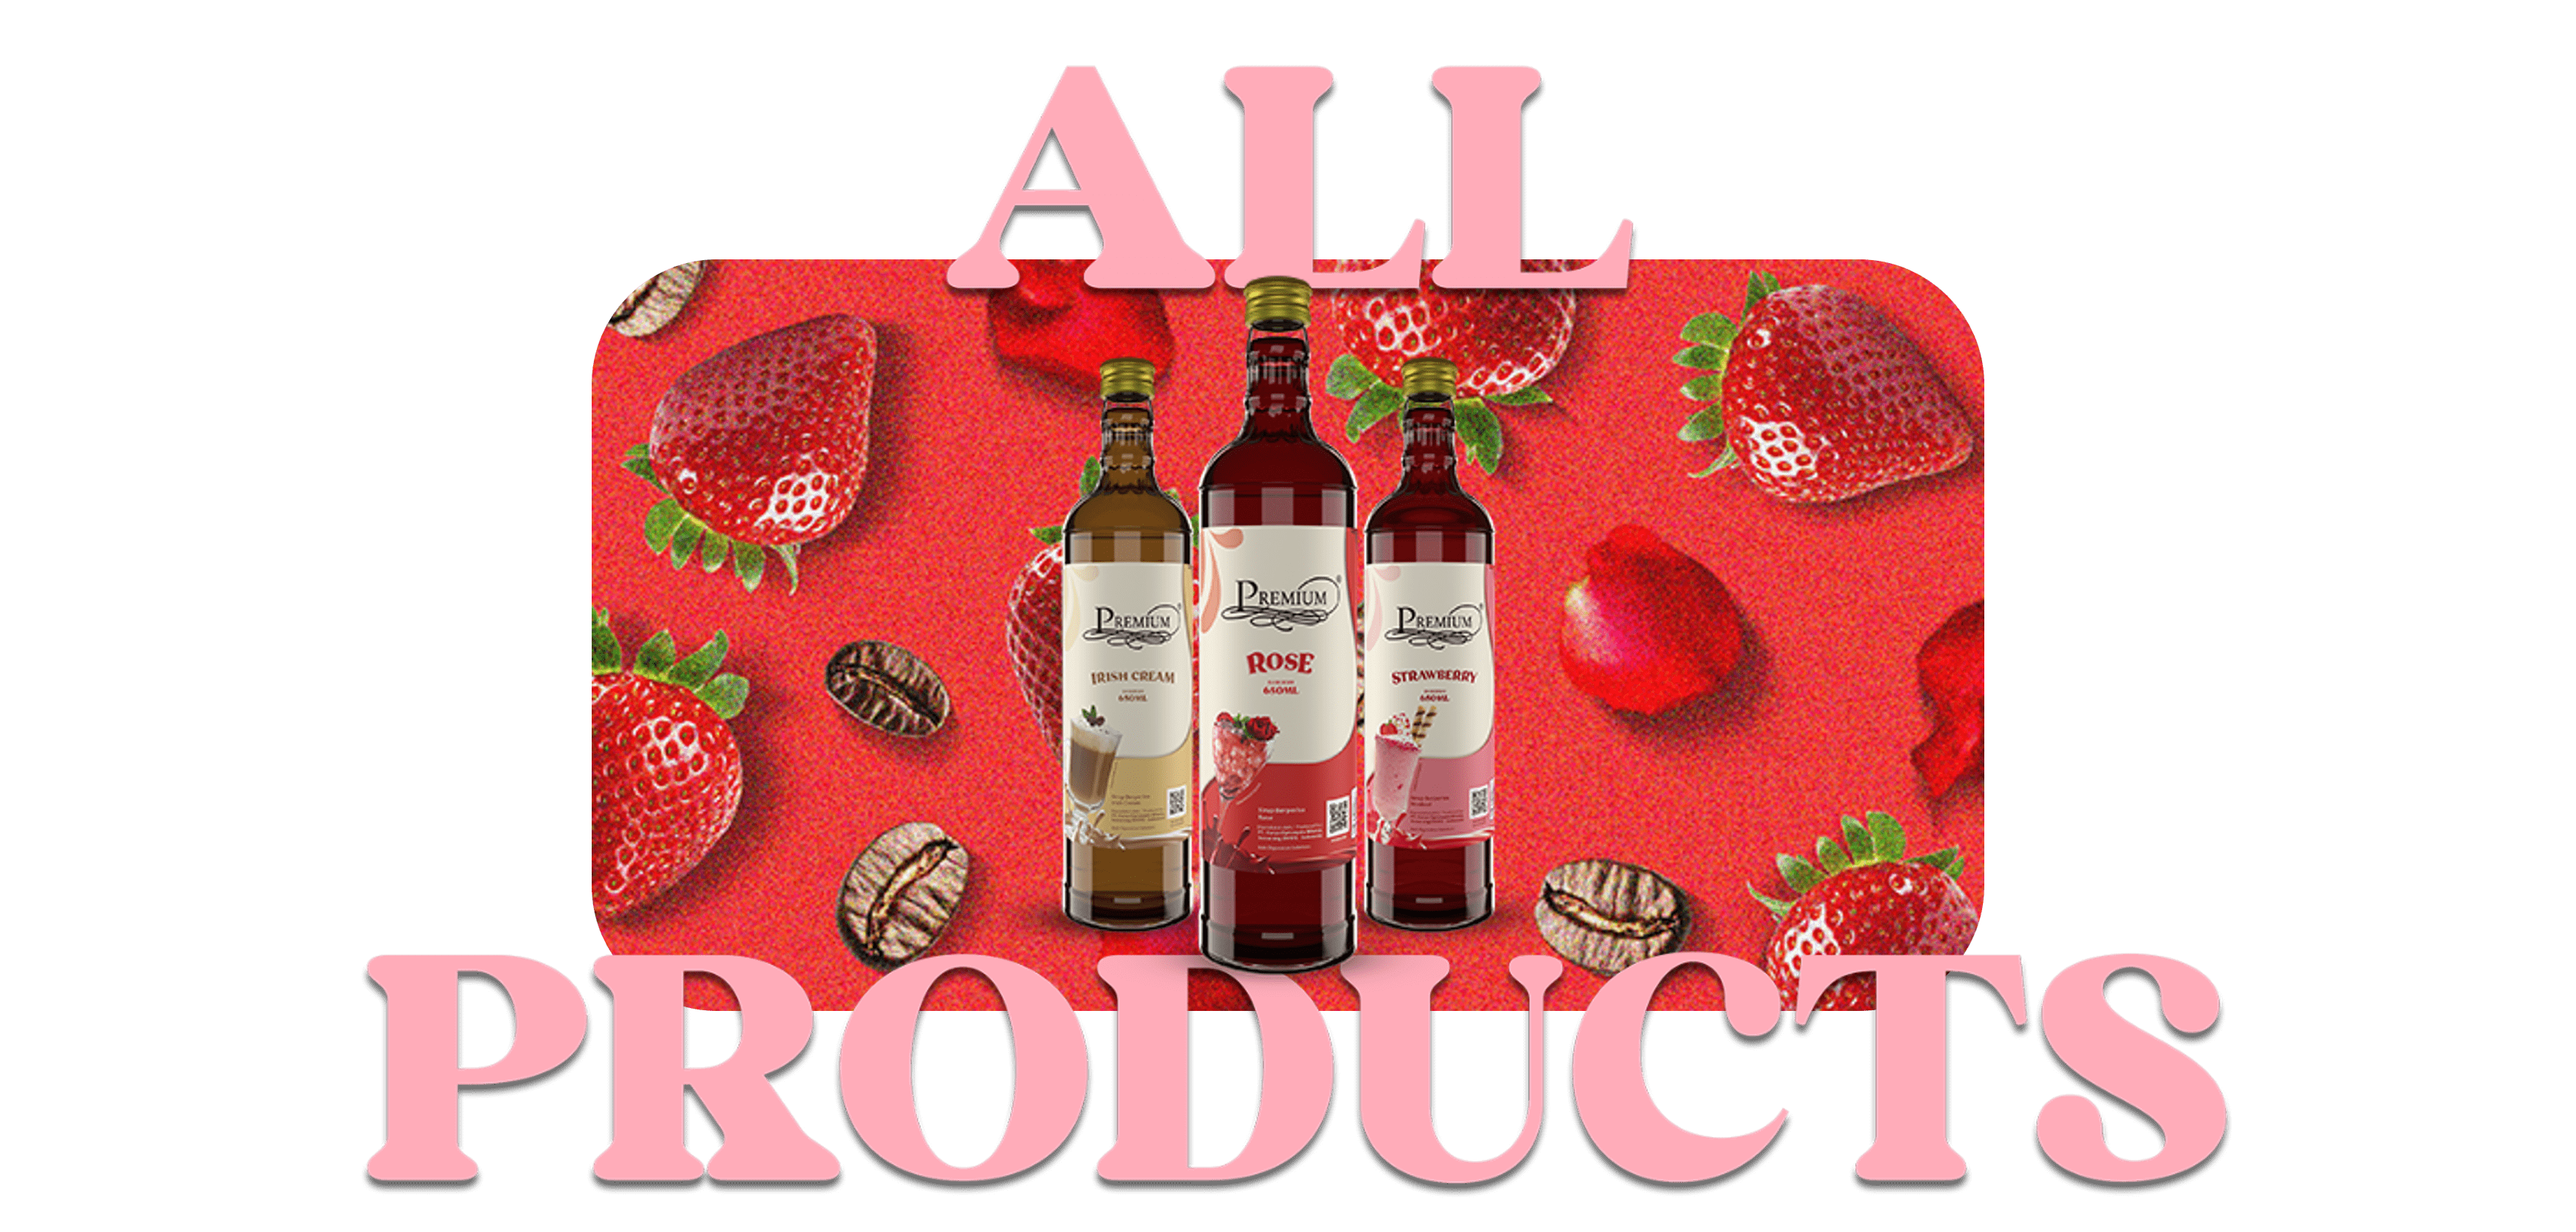
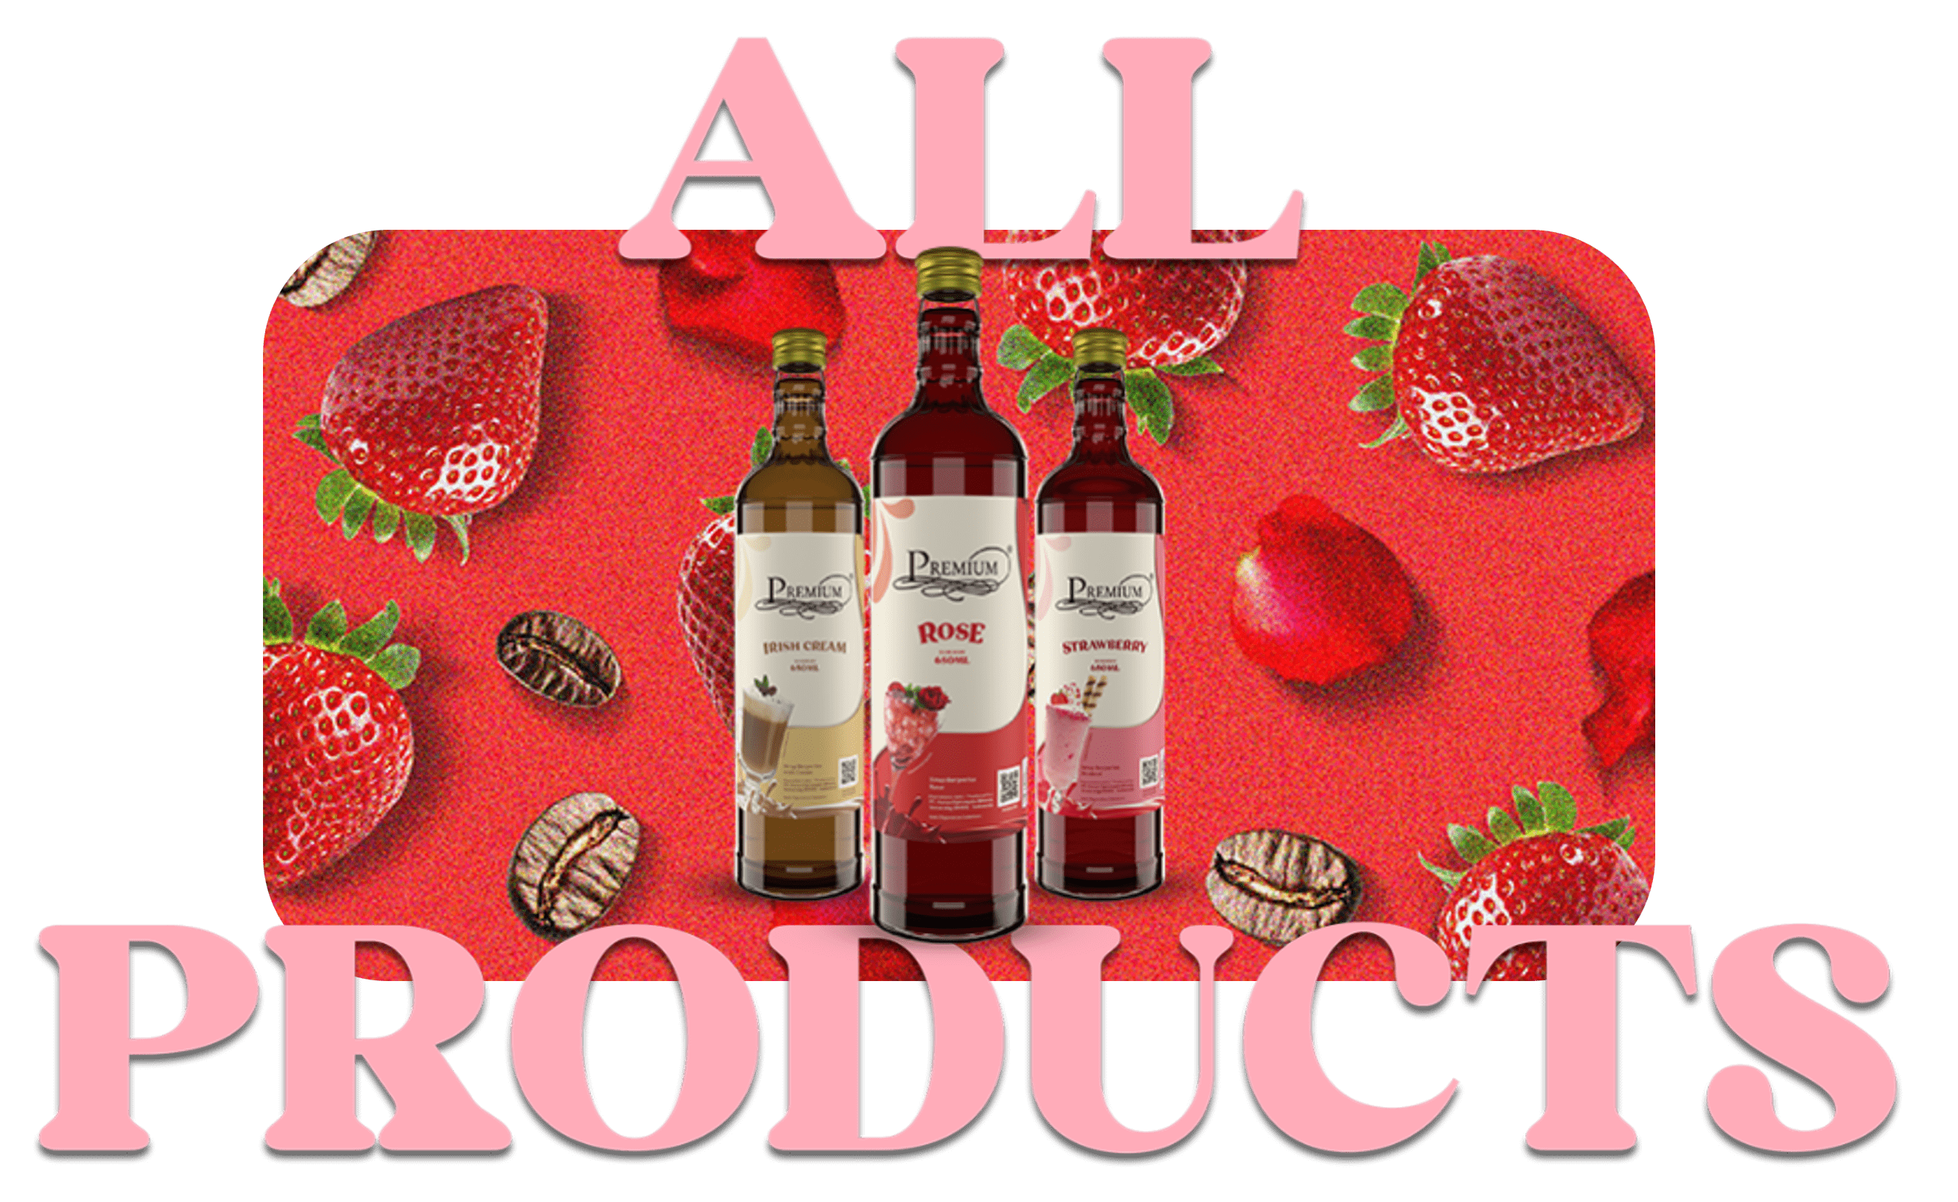
feat: carousel - change "Marketplace" asset - full height carousel - limit carousel image height

diff --git a/app/components/carousel.tsx b/app/components/carousel.tsx
@@ -116,17 +116,17 @@ const Carousel: React.FC<CarouselProps> = ({ items }) => {
         {carouselItems.map((item, index) => (
           <div
             key={index}
-            className="relative w-full flex-shrink-0 my-auto"
+            className="relative w-full carousel-height flex justify-center items-center flex-shrink-0 my-auto"
             style={{ transition: "transform 0.7s ease-in-out" }}
           >
             <img
               src={item.image}
               alt={item.alt}
-              className="w-full max-h-screen object-contain rounded-lg"
+              className="max-h-80 md:max-h-160 object-contain rounded-lg"
             />
 
             {/* Overlay text and CTA button */}
-            <div className="absolute top-1/2 left-1/2 transform -translate-x-1/2 -translate-y-1/2 text-center text-gray-700">
+            {/* <div className="absolute top-1/2 left-1/2 transform -translate-x-1/2 -translate-y-1/2 text-center text-gray-700">
               <h2 className="text-3xl font-bold mb-4 bg-transparent backdrop-blur-xs">
                 {item.title}
               </h2>
@@ -139,7 +139,7 @@ const Carousel: React.FC<CarouselProps> = ({ items }) => {
                   {item.ctaText}
                 </a>
               ) : null}
-            </div>
+            </div> */}
           </div>
         ))}
       </div>

diff --git a/app/routes/home.tsx b/app/routes/home.tsx
@@ -25,7 +25,7 @@ const carouselItems = [
     alt: "All Products",
     title: "",
     ctaText: "",
-    ctaLink: "",
+    ctaLink: "/products",
   },
   {
     image: "/carousel/premium_recipes.png",
@@ -33,7 +33,7 @@ const carouselItems = [
     alt: "Premium Recipes",
     title: "",
     ctaText: "",
-    ctaLink: "",
+    ctaLink: "/recipes",
   },
   {
     image: "/carousel/marketplace.png",

diff --git a/app/app.css b/app/app.css
@@ -120,3 +120,13 @@ b {
 .carousel-next {
   @apply absolute right-0 z-10;
 }
+
+.carousel-height {
+  height: 100%;
+}
+
+@media screen and (width >= 768px) {
+  .carousel-height {
+    height: calc(100vh - 6rem);
+  }
+}
